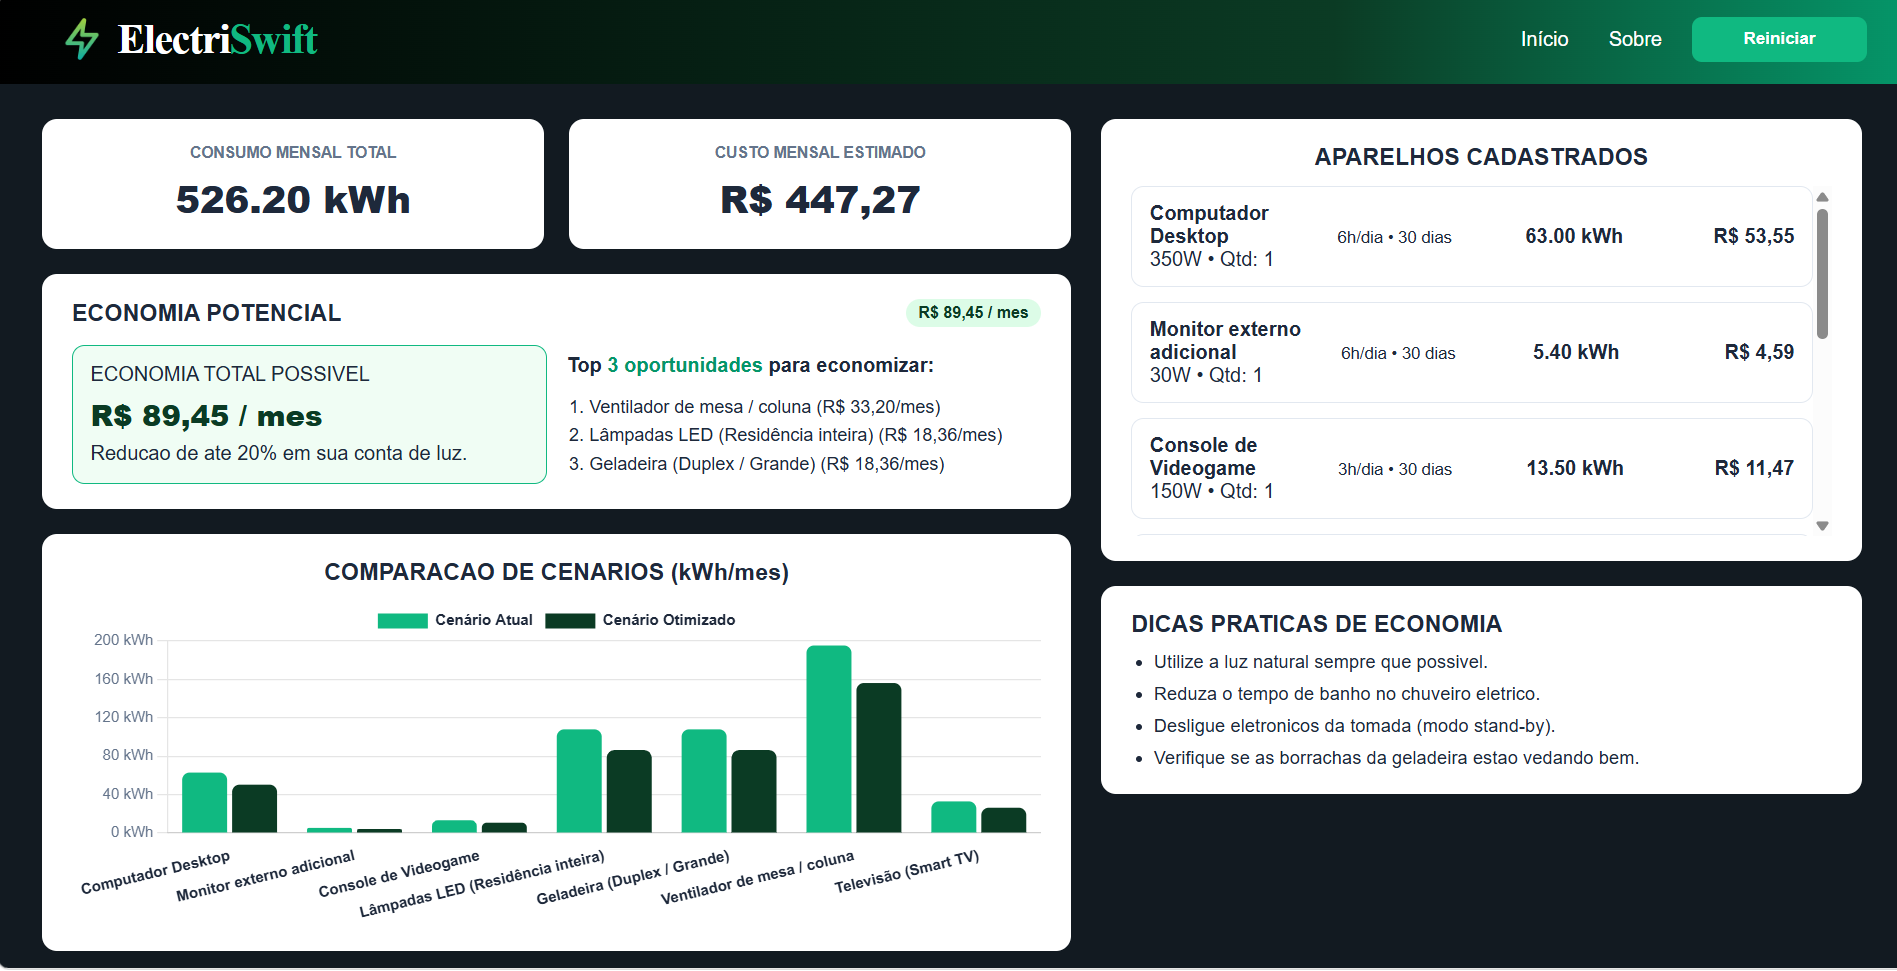
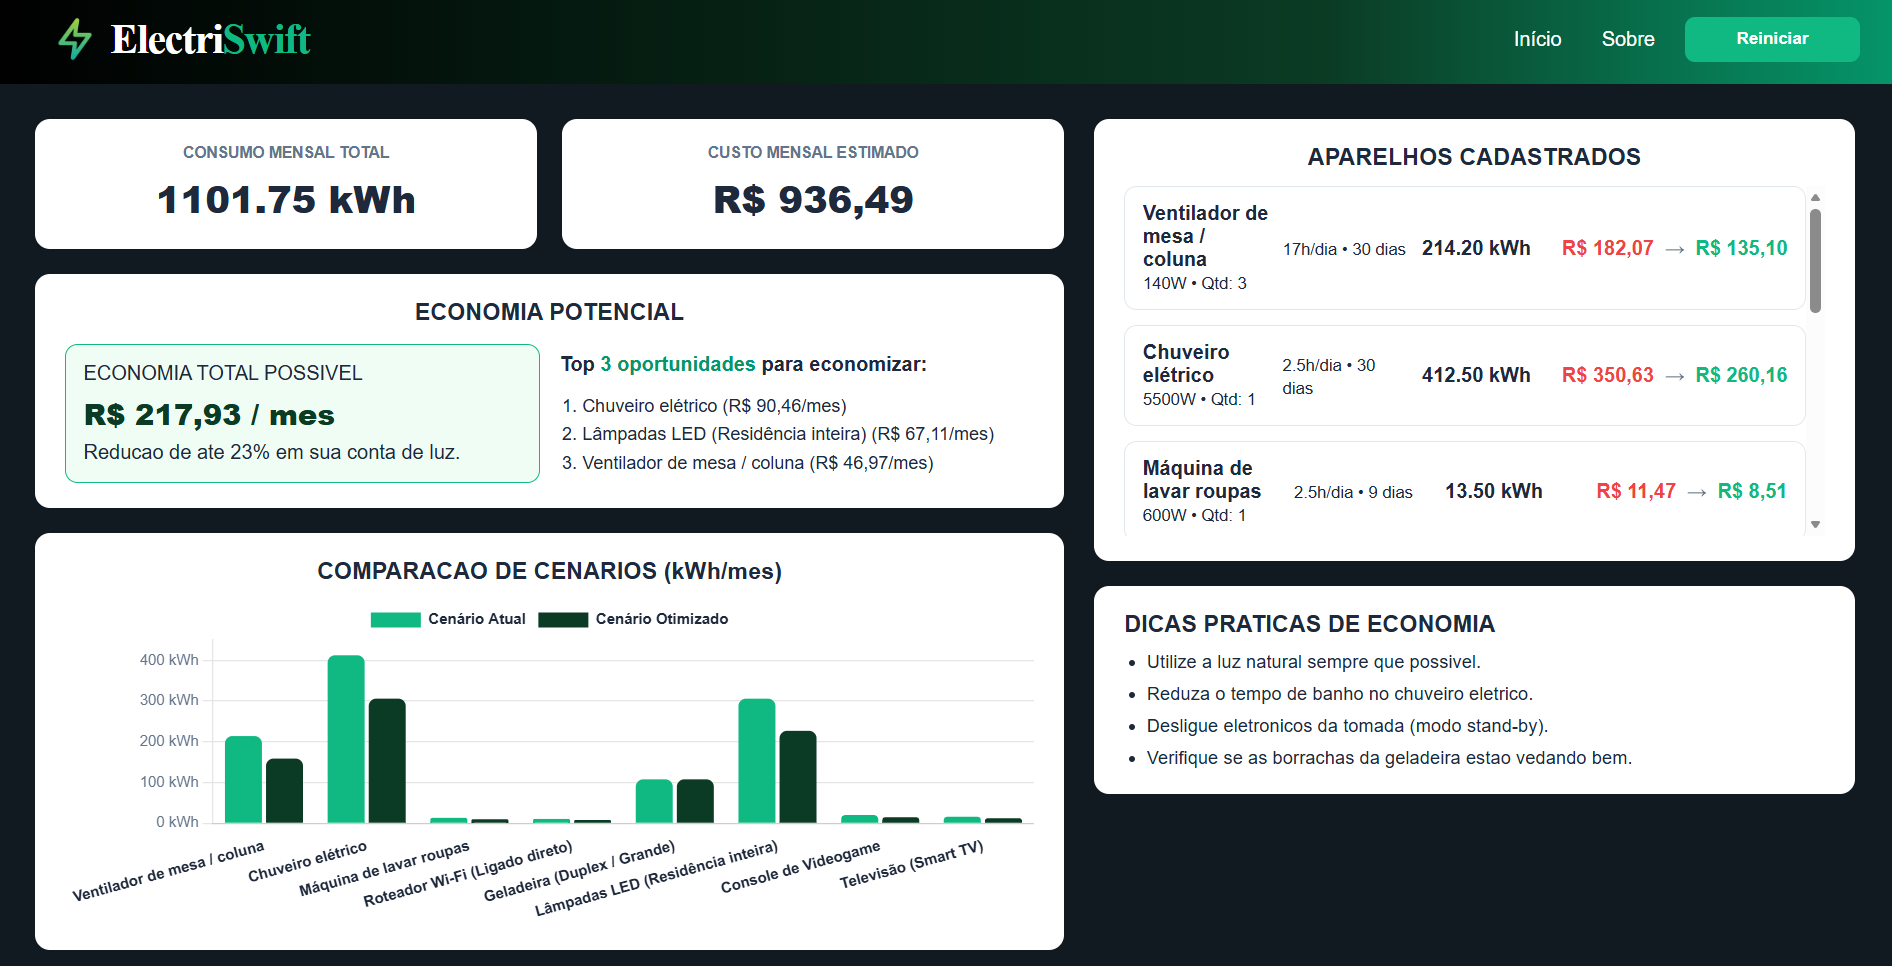
terminando a versão 01 do desktop

diff --git a/js/app/controller-desktop.js b/js/app/controller-desktop.js
@@ -77,6 +77,8 @@ const catalogoAparelhosPorCategoria = {
     }
 };
 
+const FATOR_REDUCAO = 0.258;
+
 let aparelhosNaResidencia = [];
 let temporizadoresEdicao = {};
 
@@ -209,7 +211,7 @@ document.addEventListener("DOMContentLoaded", () => {
             uuid: Date.now(),
             editando: true
         };
-        aparelhosNaResidencia.push(novoItem);
+        aparelhosNaResidencia.unshift(novoItem);
         inputBusca.value = "";
         containerResultados.innerHTML = "";
         atualizarPainelResidencia();
@@ -351,9 +353,6 @@ document.addEventListener("DOMContentLoaded", () => {
         const totalKwh = totalPreCalculado !== null
             ? totalPreCalculado
             : aparelhosNaResidencia.reduce((acc, item) => acc + calcularConsumoItem(item), 0);
-
-        const tarifa = obterTarifaAtual();
-        const custoEstimado = totalKwh * tarifa;
 
         spanTotalGeral.textContent = `${totalKwh.toFixed(2)} kWh`;
     }
@@ -500,16 +499,26 @@ document.addEventListener("DOMContentLoaded", () => {
         const detalhados = aparelhosNaResidencia.map(item => {
             const kwhAtual = calcularConsumoItem(item);
             const custoAtual = kwhAtual * tarifa;
-            const horasOtimizadas = Math.max(Number(item.horas || 0) * 0.8, 0.1);
+
+            const ehRefrigeracaoContinua =
+                [201, 202, 203].includes(item.id) ||
+                /geladeira|freezer/i.test(item.nome);
+
+            const horasOtimizadas = ehRefrigeracaoContinua
+                ? Number(item.horas || 0)
+                : Math.max(Number(item.horas || 0) * (1 - FATOR_REDUCAO), 0.1);
+
             const kwhOtimizado = ((item.potencia / 1000) * horasOtimizadas * item.dias) * item.qtde;
+            const custoOtimizado = kwhOtimizado * tarifa;
             const economiaKwh = Math.max(kwhAtual - kwhOtimizado, 0);
-            const economiaReais = economiaKwh * tarifa;
+            const economiaReais = Math.max(custoAtual - custoOtimizado, 0);
 
             return {
                 ...item,
                 kwhAtual,
                 custoAtual,
                 kwhOtimizado,
+                custoOtimizado,
                 economiaReais
             };
         });
@@ -517,7 +526,8 @@ document.addEventListener("DOMContentLoaded", () => {
         const totalKwh = detalhados.reduce((acc, d) => acc + d.kwhAtual, 0);
         const totalCusto = totalKwh * tarifa;
         const totalKwhOtimizado = detalhados.reduce((acc, d) => acc + d.kwhOtimizado, 0);
-        const economiaTotalReais = Math.max(totalCusto - (totalKwhOtimizado * tarifa), 0);
+        const totalCustoOtimizado = totalKwhOtimizado * tarifa;
+        const economiaTotalReais = Math.max(totalCusto - totalCustoOtimizado, 0);
         const economiaPerc = totalCusto > 0 ? Math.round((economiaTotalReais / totalCusto) * 100) : 0;
 
         const top3 = [...detalhados]
@@ -529,6 +539,7 @@ document.addEventListener("DOMContentLoaded", () => {
             totalKwh,
             totalCusto,
             totalKwhOtimizado,
+            totalCustoOtimizado,
             economiaTotalReais,
             economiaPerc,
             top3
@@ -588,7 +599,11 @@ document.addEventListener("DOMContentLoaded", () => {
                     },
                     tooltip: {
                         callbacks: {
-                            label: (context) => `${context.dataset.label}: ${context.parsed.y.toFixed(2)} kWh/mês`
+                            label: (context) => {
+                                const valorKwh = context.parsed.y;
+                                const valorReais = valorKwh * obterTarifaAtual();
+                                return `${context.dataset.label}: ${valorKwh.toFixed(2)} kWh (${formatarMoedaBR(valorReais)})`;
+                            }
                         }
                     }
                 },
@@ -648,12 +663,15 @@ document.addEventListener("DOMContentLoaded", () => {
                 linha.innerHTML = `
                 <div>
                     <strong>${item.nome}</strong>
-                    <div><sm
-                    all>${item.potencia}W • Qtd: ${item.qtde}</sm></div>
+                    <div><small>${item.potencia}W • Qtd: ${item.qtde}</small></div>
                 </div>
                 <div><small>${item.horas}h/dia • ${item.dias} dias</small></div>
                 <div><strong>${item.kwhAtual.toFixed(2)} kWh</strong></div>
-                <div><strong>${formatarMoedaBR(item.custoAtual)}</strong></div>
+                <div class="comparacao-preco-coluna">
+                    <span style="color: #ef4444; font-weight: 700;">${formatarMoedaBR(item.custoAtual)}</span>
+                    <span style="color: var(--text-secondary); margin: 0 4px;">→</span>
+                    <span style="color: #10B981; font-weight: 700;">${formatarMoedaBR(item.custoOtimizado)}</span>
+                </div>
             `;
                 elListaAparelhosResumo.appendChild(linha);
             });
@@ -668,8 +686,6 @@ document.addEventListener("DOMContentLoaded", () => {
             return;
         }
 
-        renderizarEtapa02();
-
         if (secaoEtapa01) {
             secaoEtapa01.style.display = "none";
         }
@@ -677,6 +693,8 @@ document.addEventListener("DOMContentLoaded", () => {
         if (secaoEtapa02) {
             secaoEtapa02.style.display = "block";
         }
+
+        renderizarEtapa02();
 
         window.scrollTo({ top: 0, behavior: "smooth" });
     }

diff --git a/app.html b/app.html
@@ -96,7 +96,7 @@
             <div class="sticky-footer">
                 <button id="btn-next-step" class="btn-primary">Continuar</button>
             </div>
-            <span class="step-counter">1 de 3</span>
+            <span class="step-counter">1 de 5</span>
         </section>
 
         <!-- MODAL: Aparelho Personalizado -->
@@ -140,7 +140,7 @@
                 <!-- Injetado via JS -->
             </div>
 
-            <span class="step-counter">2 de 3</span>
+            <span class="step-counter">2 de 5</span>
             <div class="sticky-footer-etapa02" style="display: flex; gap: 10px;">
                 <button id="btn-prev-step-1" class="btn-secondary-etapa02">
                     Voltar
@@ -217,7 +217,7 @@
                 <!-- Injetado via JS -->
             </div>
 
-            <span class="step-counter">3 de 4</span>
+            <span class="step-counter">3 de 5</span>
 
             <div class="sticky-footer-etapa03">
                 <button id="btn-prev-step-2" class="btn-secondary-etapa03">
@@ -274,7 +274,7 @@
                 <canvas id="comparison-chart"></canvas>
             </div>
 
-            <span class="step-counter">4 de 4</span>
+            <span class="step-counter">4 de 5</span>
 
             <div class="sticky-footer-etapa04">
                 <button id="btn-prev-step-3" class="btn-secondary">

diff --git a/appDesktop.html b/appDesktop.html
@@ -161,10 +161,7 @@
 
                     <div class="economia-card-desktop">
                         <div class="economia-topo">
-                            <h3>ECONOMIA POTENCIAL</h3>
-                            <span class="badge-economia" id="res-desktop-badge-economia">
-                                R$ 0,00 / mes
-                            </span>
+                            <h3 class="title-economia-potencial">ECONOMIA POTENCIAL</h3>
                         </div>
                         <div class="economia-corpo">
                             <div class="economia-destaque-box">

diff --git a/aboutDesktop.html b/aboutDesktop.html
@@ -139,7 +139,7 @@
                             retorno.
                         </p>
                         <img 
-                            src="./assets/image.png"
+                            src="./assets/graficos.png"
                             class="imagem-about" 
                             alt="imagem do gráfico e dicas do site para economizar"
                         >

diff --git a/css/appDesktop.css b/css/appDesktop.css
@@ -757,15 +757,8 @@ body {
   justify-content: space-between;
   align-items: center;
   margin-bottom: 14px;
-}
-
-.badge-economia {
-  background-color: #DCFCE7;
-  color: var(--primary-color);
-  font-size: 0.8rem;
-  font-weight: 700;
-  padding: 4px 10px;
-  border-radius: 999px;
+  margin-right: auto;
+  margin-left: auto;
 }
 
 .economia-corpo {
